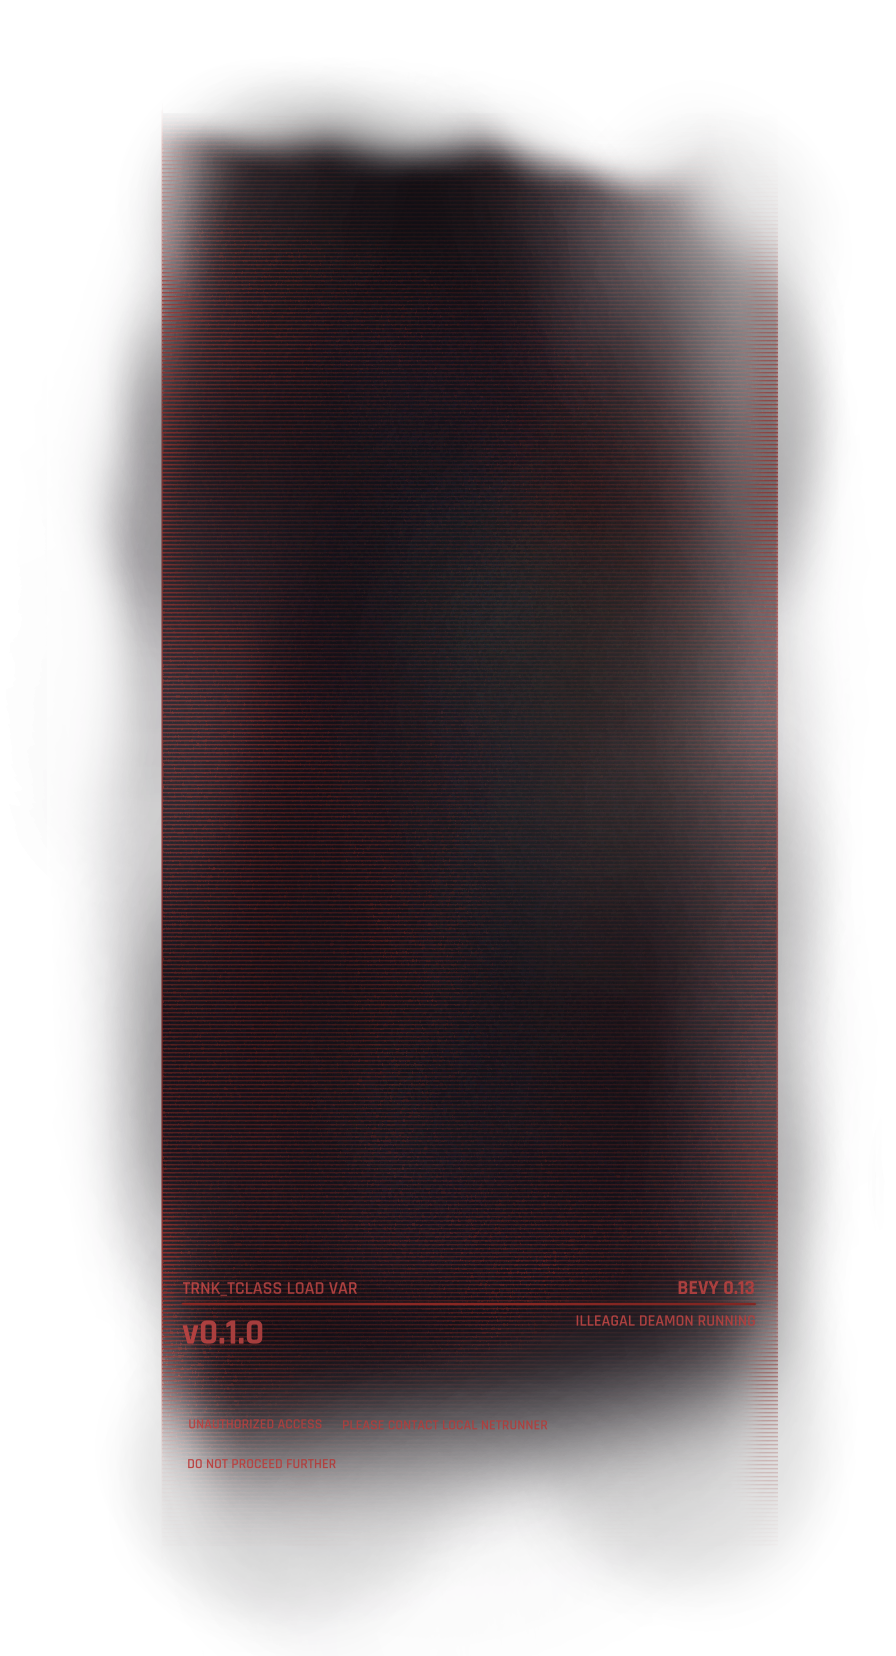
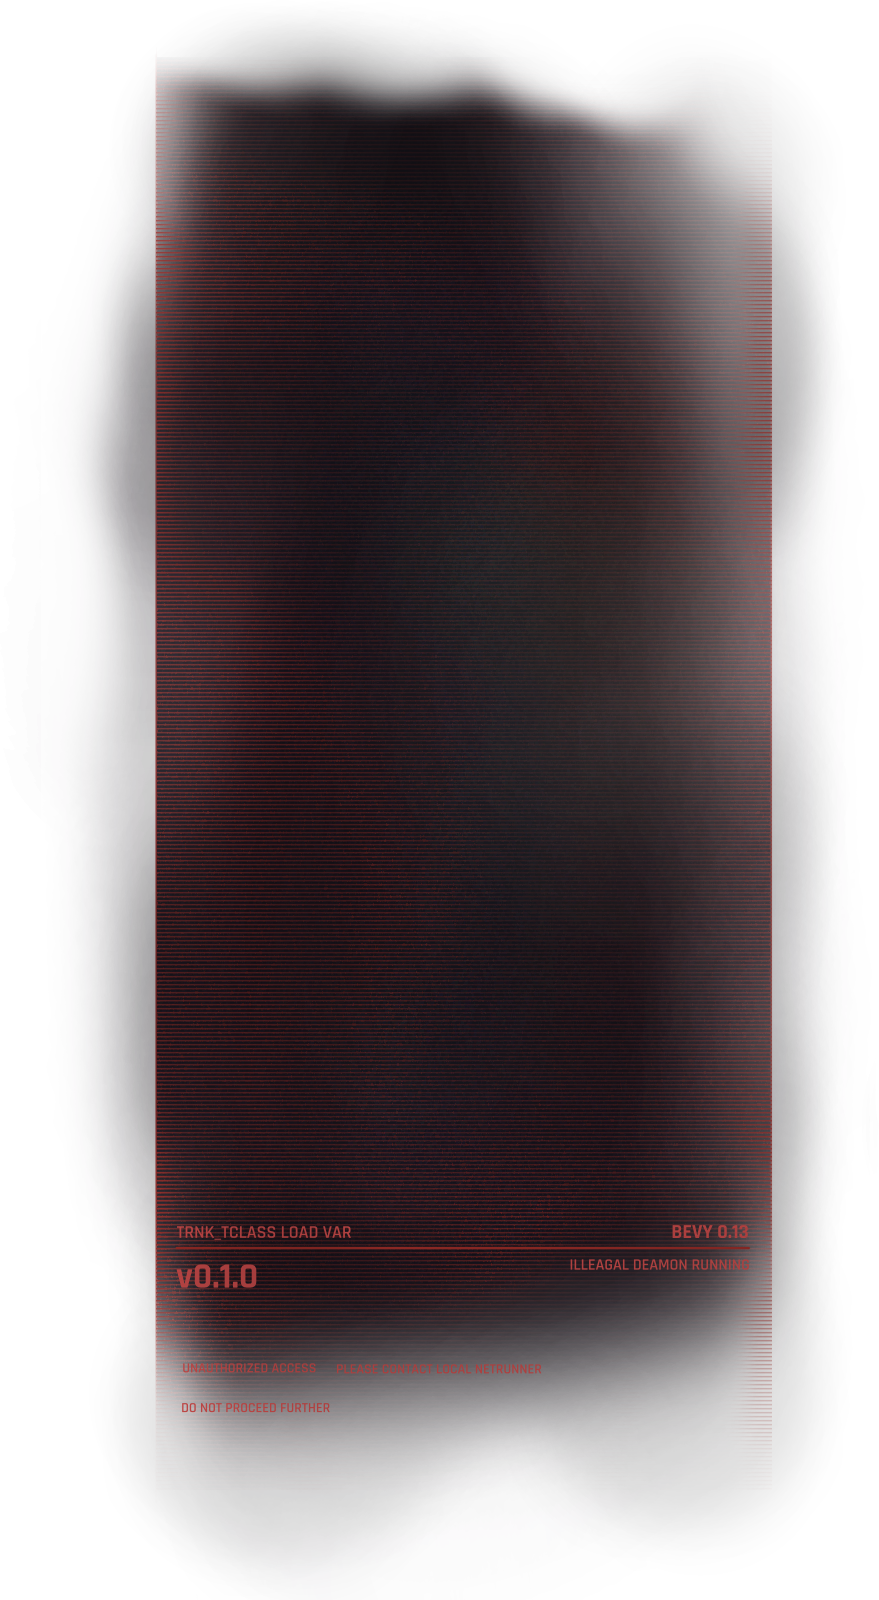
sync

Changed region(s): [[0.1229, 0.0, 0.9215, 0.9062], [0.4608, 0.3125, 0.5529, 0.3438]]

diff --git a/src/main.rs b/src/main.rs
@@ -14,10 +14,34 @@ fn main() {
         .run();
 }
 
-fn startup(mut commands: Commands, assets: Res<AssetCache>) {
+fn startup(mut commands: Commands, assets: Res<AssetCache>, mut atlas_layout: ResMut<Assets<TextureAtlasLayout>>) {
 
     // Spawn camera
-    commands.spawn(camera());
+    commands.spawn(camera()).with_children(|camera| {
+
+        // Spawn cursor
+        camera.spawn ((
+            Cursor2d::new().native_cursor(false)
+                .register_cursor(CursorIcon::Default, 0, (14.0, 14.0))
+                .register_cursor(CursorIcon::Copy, 1, (10.0, 12.0))
+                .register_cursor(CursorIcon::Grab, 2, (40.0, 40.0)),
+
+            SpriteSheetBundle {
+                texture: assets.cursor.clone(),
+                atlas: TextureAtlas {
+                    layout: atlas_layout.add(TextureAtlasLayout::from_grid(Vec2::splat(80.0), 3, 1, None, None)),
+                    index: 0,
+                },
+                transform: Transform { scale: Vec3::new(0.45, 0.45, 1.0), ..default() },
+                sprite: Sprite {
+                    color: Color::BEVYPUNK_YELLOW.with_a(2.0).with_l(0.68),
+                    anchor: bevy::sprite::Anchor::TopLeft,
+                    ..default()
+                },
+                ..default()
+            },
+        ));
+    });
 
     // Spawn audio
     commands.spawn( AudioBundle { source: assets.music.clone(), settings: PlaybackSettings::LOOP.with_volume(bevy::audio::Volume::new(0.5)) } );
@@ -46,11 +70,18 @@ fn startup(mut commands: Commands, assets: Res<AssetCache>) {
 
 
         // Spawn the board
-        let board = root.add("Board");
+        let board = root.add("Solid");
         ui.spawn((
             MenuUi,
             board.clone(),
-            UiLayout::Solid::new().size((896.0, 1656.0)).align_x(-0.74).pack(),
+            UiLayout::Solid::new().size((879.0, 1600.0)).align_x(-0.74).pack(),
+        ));
+
+        let board = board.add("Board");
+        ui.spawn((
+            MenuUi,
+            board.clone(),
+            UiLayout::Window::new().x(Rl(50.0)).anchor(Anchor::TopCenter).size(Rl(105.0)).pack(),
             UiImage2dBundle::from(assets.main_board.clone())
         ));
 
@@ -88,12 +119,12 @@ fn startup(mut commands: Commands, assets: Res<AssetCache>) {
                 UiLayout::Window::new().y(Rl(offset)).size(Rl((100.0, size))).pack(),
                 UiImage2dBundle {
                     texture: assets.button.clone(),
-                    sprite: Sprite { color: Color::BEVYPUNK_RED_DIM, ..default() },
+                    sprite: Sprite { color: Color::BEVYPUNK_RED_DIM.with_a(1.5), ..default() },
                     ..default()
                 },
                 ImageScaleMode::Sliced(TextureSlicer { border: BorderRect::square(32.0), ..default() }),
             ));
-    
+
             // Spawn button text
             ui.spawn((
                 MenuUi,
@@ -104,7 +135,7 @@ fn startup(mut commands: Commands, assets: Res<AssetCache>) {
                         TextStyle {
                             font: assets.font_medium.clone(),
                             font_size: 70.0,
-                            color: Color::BEVYPUNK_RED,
+                            color: Color::BEVYPUNK_RED.with_s(1.1).with_a(1.5) * 1.1,
                         }),
                     ..default()
                 }

diff --git a/src/boilerplate.rs b/src/boilerplate.rs
@@ -31,6 +31,8 @@ pub struct AssetCache {
     pub font_semibold: Handle<Font>,
     pub font_bold: Handle<Font>,
 
+    pub cursor: Handle<Image>,
+
     pub button: Handle<Image>,
 
     pub switch_base: Handle<Image>,
@@ -50,6 +52,8 @@ pub fn prestartup(mut commands: Commands, asset_server: Res<AssetServer>) {
         font_medium: asset_server.load("fonts/rajdhani/Rajdhani-Medium.ttf"),
         font_semibold: asset_server.load("fonts/rajdhani/Rajdhani-SemiBold.ttf"),
         font_bold: asset_server.load("fonts/rajdhani/Rajdhani-Bold.ttf"),
+
+        cursor: asset_server.load("images/cursor.png"),
 
         button: asset_server.load("images/main_menu/button.png"),
 
